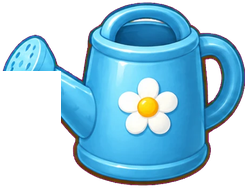
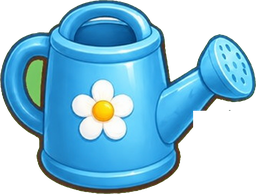
농장: 새 물뿌리개 그림, 그림 아래를 흐림 없이 연두색 그라데이션으로 이음
Claude-Session: https://claude.ai/code/session_01QsJz8svXLJhiXtuEPA1E7w

diff --git a/src/components/FarmScene.tsx b/src/components/FarmScene.tsx
@@ -108,9 +108,9 @@ export function FarmScene({ outfit, tweaks, onExit, onWear }: { outfit: Outfit; 
 
   return (
     <section aria-label={ko ? '나의 작은 농장' : 'My little farm'} className="relative h-full overflow-hidden rounded-3xl bg-[#b9d77a] ring-1 ring-black/5" style={{ containerType: 'size' }}>
-      {/* 그림 아래 남는 자리: 같은 그림을 흐리게 깔아 자연스럽게 이어 보이게 한다 */}
-      <div aria-hidden className="absolute inset-0" style={{ backgroundImage: `url(${assetUrl('assets/farm/bg.webp')})`, backgroundSize: 'cover', backgroundPosition: 'center bottom', filter: 'blur(22px) saturate(0.95)', transform: 'scale(1.15)' }} />
-      <div className="absolute top-0 left-1/2 -translate-x-1/2 select-none" style={{ width: 'min(100cqw, calc(100cqh * 1024 / 1536))', aspectRatio: '1024 / 1536', WebkitMaskImage: 'linear-gradient(to bottom, #000 90%, transparent 100%)', maskImage: 'linear-gradient(to bottom, #000 90%, transparent 100%)' }}>
+      {/* 그림 아래 남는 자리: 그림 맨 아래 풀밭 색에서 연두색으로 부드럽게 이어지는 그라데이션 */}
+      <div aria-hidden className="absolute inset-x-0 bottom-0" style={{ top: 'calc(min(150cqw, 100cqh) - 3rem)', background: 'linear-gradient(to bottom, #9bad3f 0%, #aac24f 30%, #b9d77a 100%)' }} />
+      <div className="absolute top-0 left-1/2 -translate-x-1/2 select-none" style={{ width: 'min(100cqw, calc(100cqh * 1024 / 1536))', aspectRatio: '1024 / 1536', WebkitMaskImage: 'linear-gradient(to bottom, #000 95%, transparent 100%)', maskImage: 'linear-gradient(to bottom, #000 95%, transparent 100%)' }}>
         <img src={assetUrl('assets/farm/bg.webp')} alt="" className="absolute inset-0 h-full w-full" draggable={false} />
 
         {/* 노점: 눌러서 주민의 부탁·바구니 팔기 */}
@@ -147,7 +147,7 @@ export function FarmScene({ outfit, tweaks, onExit, onWear }: { outfit: Outfit; 
           <div className={walking ? 'farm-walk' : ''} style={{ width: '100%', height: '100%', position: 'relative' }}>
             <FigureLayers outfit={outfit} tweaks={tweaks} animate={false} />
             {hold === 'can' ? (
-              <img src={assetUrl('assets/farm/can.webp')} alt="" draggable={false} className="absolute" style={{ left: '66%', top: '50%', width: '34%', transformOrigin: '10% 60%', transform: watering ? 'scaleX(-1) rotate(-35deg)' : 'scaleX(-1)', transition: 'transform 0.25s' }} />
+              <img src={assetUrl('assets/farm/can.webp')} alt="" draggable={false} className="absolute" style={{ left: '66%', top: '50%', width: '34%', transformOrigin: '15% 60%', transform: watering ? 'rotate(32deg)' : 'rotate(0deg)', transition: 'transform 0.25s' }} />
             ) : (
               <img src={assetUrl('assets/farm/icon_basket.webp')} alt="" draggable={false} className="absolute" style={{ left: '62%', top: '44%', width: '42%' }} />
             )}
